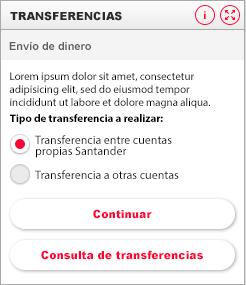
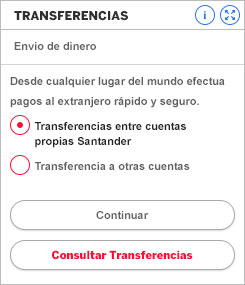
Actualizacion en balance transfer

diff --git a/css/widgets.css b/css/widgets.css
@@ -30,7 +30,6 @@ h1,h2,h3,h4,h5{
 }
 
 .f_titleWid{
-<<<<<<< HEAD
          font-size: 13px;
     font-weight: bolder;
     margin: 8px auto 8px 45%;
@@ -39,7 +38,6 @@ h1,h2,h3,h4,h5{
     width: 200px;
     overflow: visible;
 		}
-=======
         margin: 8px 0 0 175px; 
 		font-size: 13px;
 		font-weight: bolder;
@@ -470,6 +468,7 @@ margin-left: 8px;
 
         .tbl_consulta tr:nth-child(even) td{
                 background-color:#F0F0F0;
+                background-color:white;
         }
 
 

diff --git a/widgets/max/w_1/index.html b/widgets/max/w_1/index.html
@@ -138,6 +138,7 @@ input[type=radio]{
 			<div class="wra_Select">
 				<p><b>Instituci&oacute;n bancaria o comercial</b></p>
 				<input type="text"  placeholder="Seleccionar" />
+				<input type="text"  placeholder="Banco externo" disabled/>
 				
 			</div>
 			<div class="wra_Select" style="width:238px !important">

diff --git a/widgets/min/w_2/index.html b/widgets/min/w_2/index.html
@@ -85,6 +85,7 @@
 
 
 	<img  style="width:100%;height:100%"  src="img/fake/transferenciaSaldos.png">
+	<img  style="width:100%;height:100%"  src="img/fake/domiciliaciones.jpg">
 
 
 		
